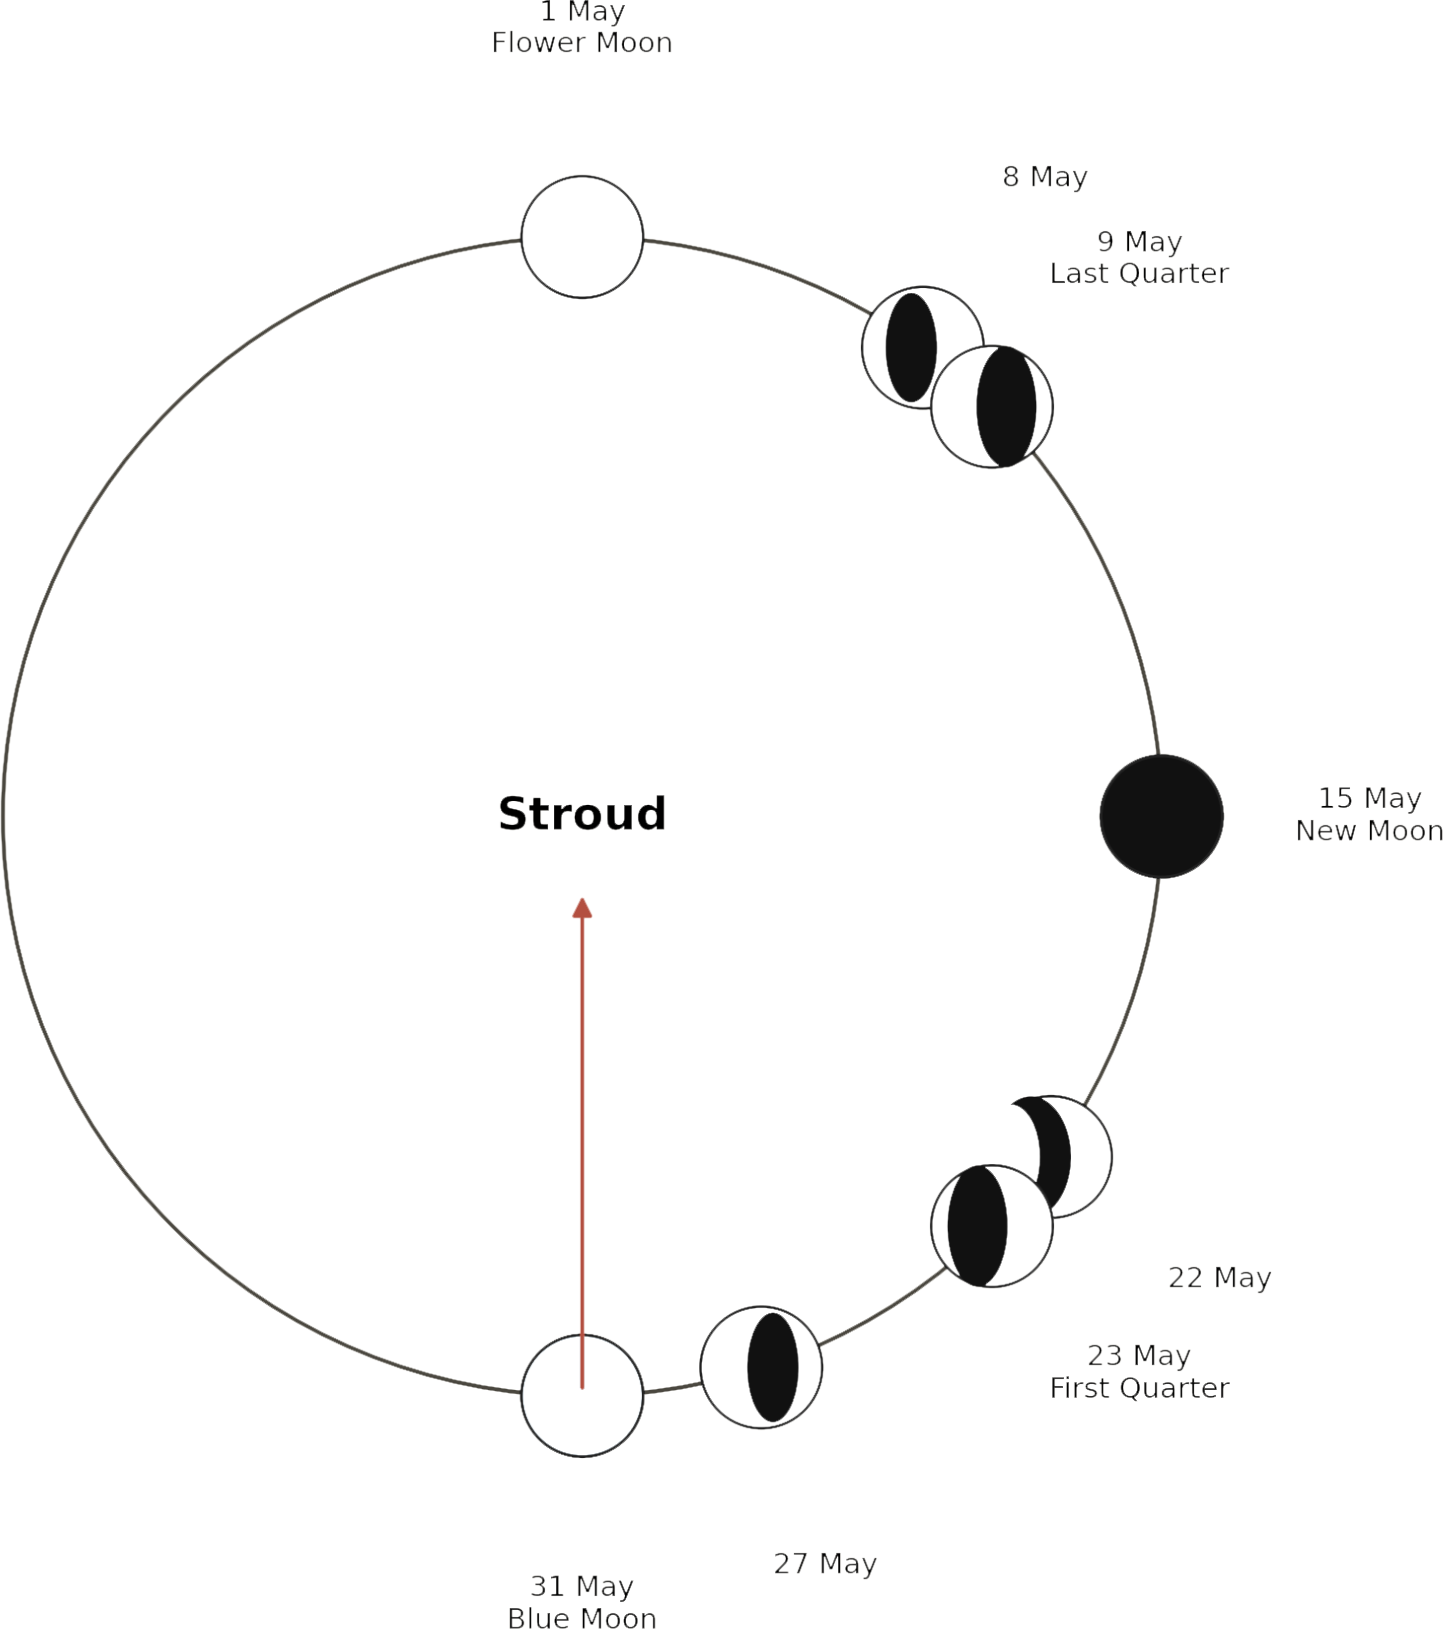
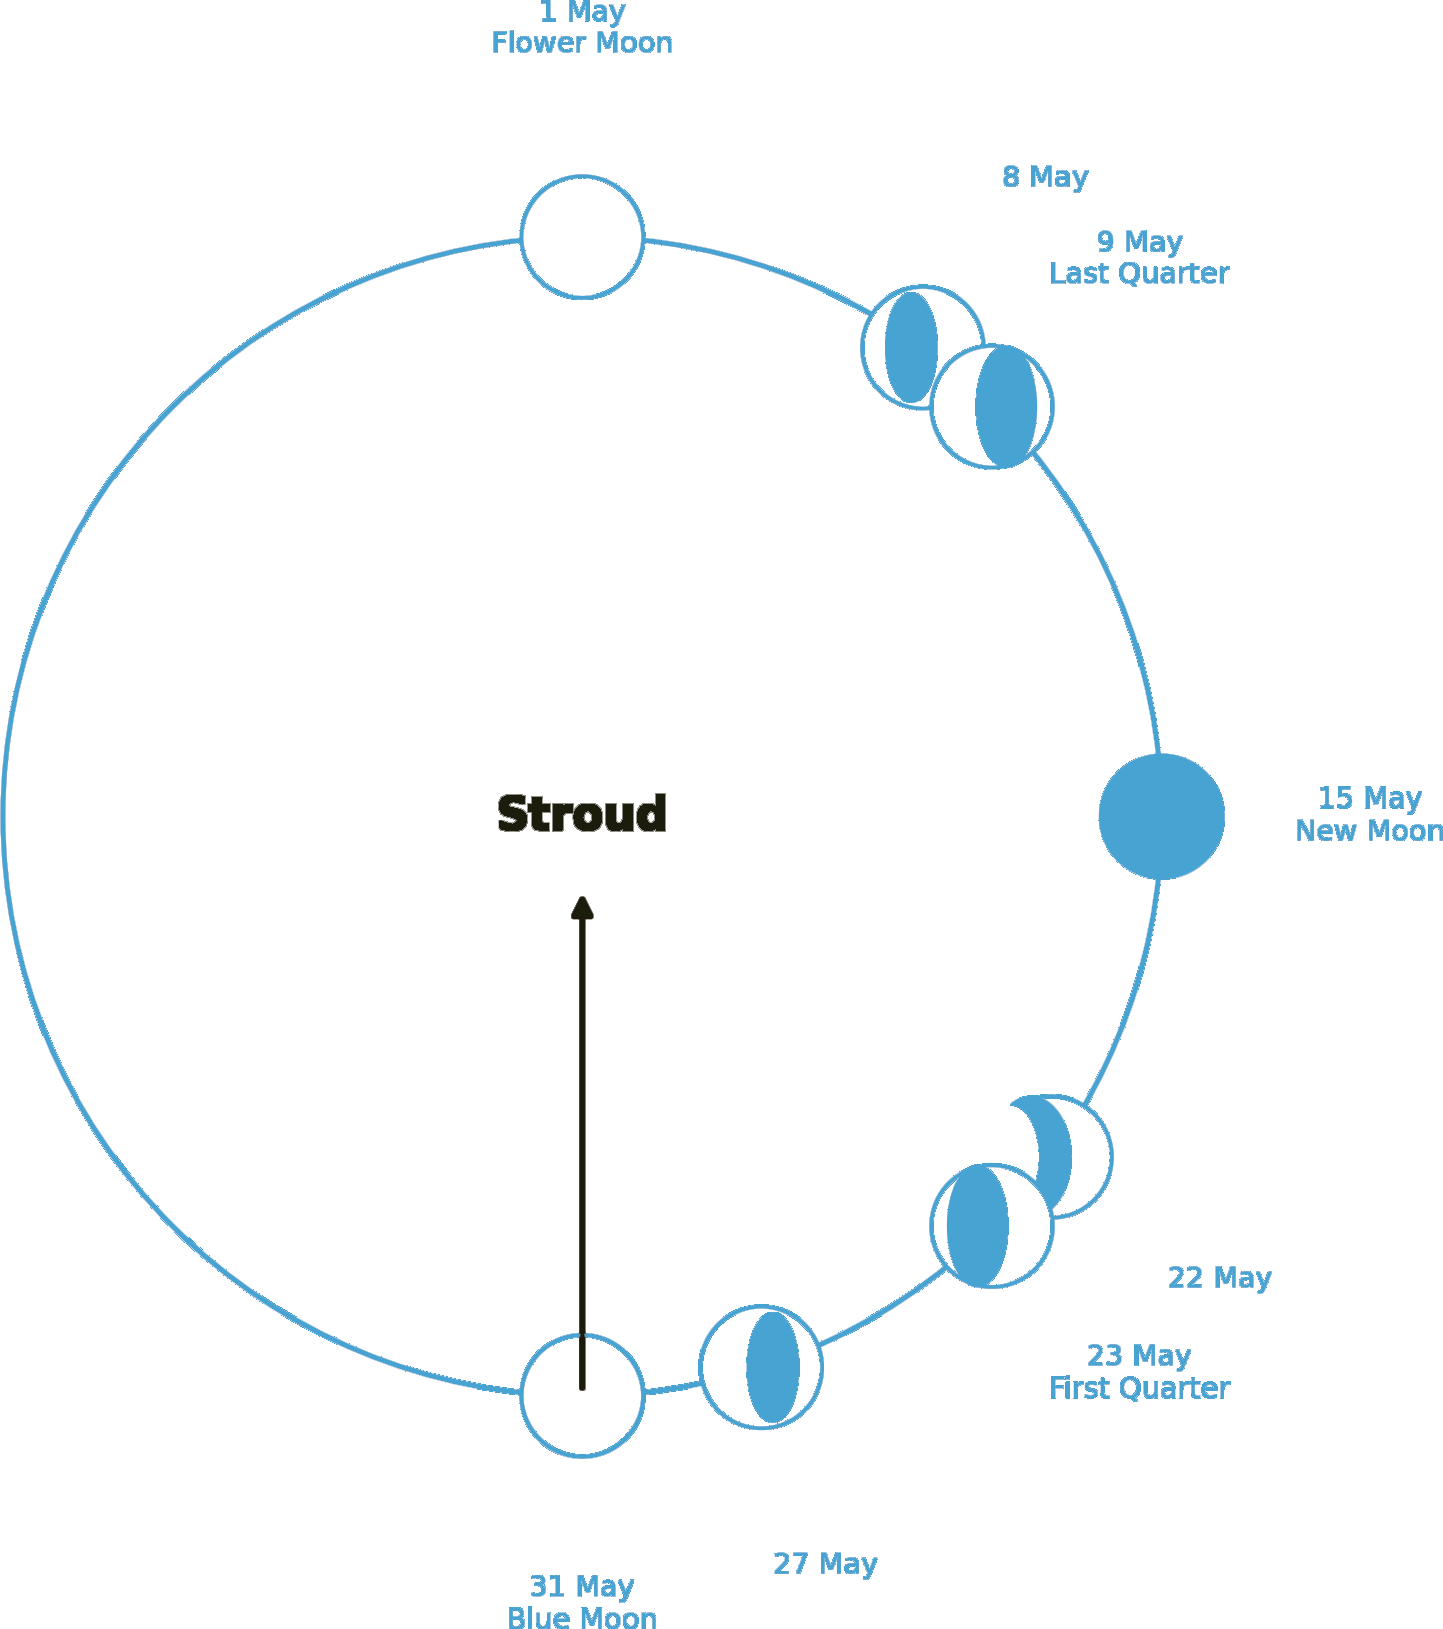
festival page updates

diff --git a/festival/index.php b/festival/index.php
@@ -6,7 +6,7 @@ error_reporting(E_ALL);
 $root = '../';
 include '../lib.php';
 
-$event_id = '20260411';
+$event_id = '20260529';
 $event = getEventFromId($event_id);
 ?>
 <!DOCTYPE html>
@@ -19,6 +19,13 @@ $event = getEventFromId($event_id);
     <?php echo $analytics ?>
 
     <style>
+     :root {
+	 --beige: #f5eee5;
+	 
+	 --title: #1B1C0C;
+	 --background: #F7D5E5;
+	 --extra: #007EA6;
+     }
      @font-face {
 	 font-family: Cormorant;
 	 src: url('fonts/Cormorant.ttf');
@@ -27,7 +34,7 @@ $event = getEventFromId($event_id);
 	 content: none;
      }
      body {
-	 background-color: #f5eee5;
+	 background-color: var(--background);
      }
      #grass {
 	 height: 100vh;
@@ -38,6 +45,11 @@ $event = getEventFromId($event_id);
 	 left: 50%;
 	 top: 50%;
 	 transform: translate(-50%, -50%);
+	 filter: brightness(0.5);
+     }
+
+     #circlePath, #circle-text {
+	 display: none;
      }
      #circle-text {
 	 position: absolute;
@@ -52,13 +64,26 @@ $event = getEventFromId($event_id);
      #circle-text > * {
 	 width: 100%;
      }
+
+     #festival-logo {
+	 position: absolute;
+	 left: 50%;
+	 top: 50%;
+	 transform: translate(-50%, -50%);
+	 width: 90%;
+     }
+     
      .paragraph {
 	 gap: 1rem;
      }
      .paragraph > * {
 	 font-family: Cormorant;
 	 display: block;
-	 color: black;
+	 color: var(--title);
+     }
+     .paragraph > *:empty{
+	 max-height: 0;
+	 overflow: hidden;
      }
      h2 {
 	 font-size: 3rem;
@@ -68,12 +93,25 @@ $event = getEventFromId($event_id);
 	 flex-basis: 100% !important;
      }
 
+     #partners {
+	 display: flex;
+	 justify-content: space-between;
+	 max-width: 100%;
+	 gap: 1rem;
+     }
+     #partners > * {
+	 flex-basis: 0;
+	 flex-grow: 1;
+	 width: 0;
+	 object-fit: contain;
+	 max-height: 50px;
+     }
      
      footer * {
-	 color: grey !important;
+	 color: var(--extra) !important;
      }
      footer > a {
-	 color: black !important;
+	 color: var(--title) !important;
      }
      .full {
 	 flex-basis: 100%;
@@ -83,7 +121,7 @@ $event = getEventFromId($event_id);
 	 margin: 0 0 1rem;
      }
      .artist-list  a {
-	 color: black;
+	 color: var(--extra);
      }
     </style>
     
@@ -108,18 +146,31 @@ $event = getEventFromId($event_id);
       </textPath>
   </text>
 	</svg>
+	<img src="festival/seasoning-festival-logo.svg" id="festival-logo">
 	<div style="height: 100vh"></div>
 	<div class="paragraph" style="margin-top: 3rem">
 	    <h2 style="text-align: left; font-family: Milker">Rave Culture Is Folk Culture</h2>
-	    <h3 style="text-align: right;">Not a weekend away from life, but a durable scene inside it. Something earthy, bass-led, porous and strange.</h3>
-	    <h3 style="align-self: last baseline"></h3>
-	    <h2 style="text-align: right; font-family: Milker; align-self: last baseline; margin-bottom: 0">3 Days<br>3 Nights</h2>
-	    <img src="festival/moon-phases.png" style="max-height: 500px; object-fit: contain">
-	    <h4 style="align-self: start; margin: 0; font-weight: normal; text-align: right"><i>Figure 5: Moon phase circle culminating in the 31 May 2026 blue moon, with dated phases distributed around the orbit and a ray extending inward to Stroud as both site and concept.</i></h4>
+	    <h3 style="text-align: right;">Not a weekend away from life, but a durable scene inside it. Something earthy, bass-led, porous and <strong>strange.</strong></h3>
+	    <br><h2 style="text-align: right; font-family: Milker; align-self: start; margin-bottom: 0" class="full">3 Days<br>3 Nights<br><span style="font-size: 2rem; font-family: Cormorant">The Goods Shed + SVA,<br>Stroud, GL5 3AP<br><br>A Weekend of <strong>Soundsystem Mysticism</strong> in The Five Valleys</span></h2>
 	    <hr>
-	    <h2 style="font-family: Milker; margin: 0">The Artists</h2>
-	    <p class="full artist-list"><?php renderArtistList($event['artists']);?><hr class="full"> <h3 style="font-family: Milker">& Many More To Come</h3></p>
-	    <p></p><h3 style="max-width: fit-content"><a href="https://fixr.co/event/seasoning-festival-2026-tickets-738401183?ref=MC3012" style="font-family: Milker; border: 2px solid black; padding: 0.5rem; color: black">Buy Tickets</a></h3><br><br>
+	    <h2 style="font-family: Milker; margin: 0">Over 130 artists moving across four stages</h2><h3 style="text-align: right">Bringing together strands of rave that have long run parallel, low-end pressure, percussive intensity, dubwise psychedelia, hypnotic techno and everything in between.</h3>
+	    <p class="full artist-list" style="font-size: 3rem"><?php renderArtistList($event['artists']);?>
+		<hr class="full">
+		<h3 style="font-family: Milker; align-self: center">& Many More To Come</h3>
+		<h3 style="max-width: fit-content">
+		    <a href="https://fixr.co/event/seasoning-festival-2026-tickets-738401183?ref=MC3012" style="font-family: Milker; border: 2px solid var(--title); padding: 0.5rem; color: var(--title)">Buy Tickets</a>
+		</h3>
+	    </p>
+	    <p class="full" id="partners">
+		<img src="festival/partners/club-blanco.png">
+		<img src="festival/partners/joy-lift.png">
+		<img src="festival/partners/loose-joints.png">
+		<img src="festival/partners/arts-council-england.png">
+		<img src="festival/partners/cabin-fever.png">
+		<img src="festival/partners/dance-policy.png">
+		<img src="festival/partners/cranium.png">
+	    </p>
+	    
 	</div>
     </body>
 
